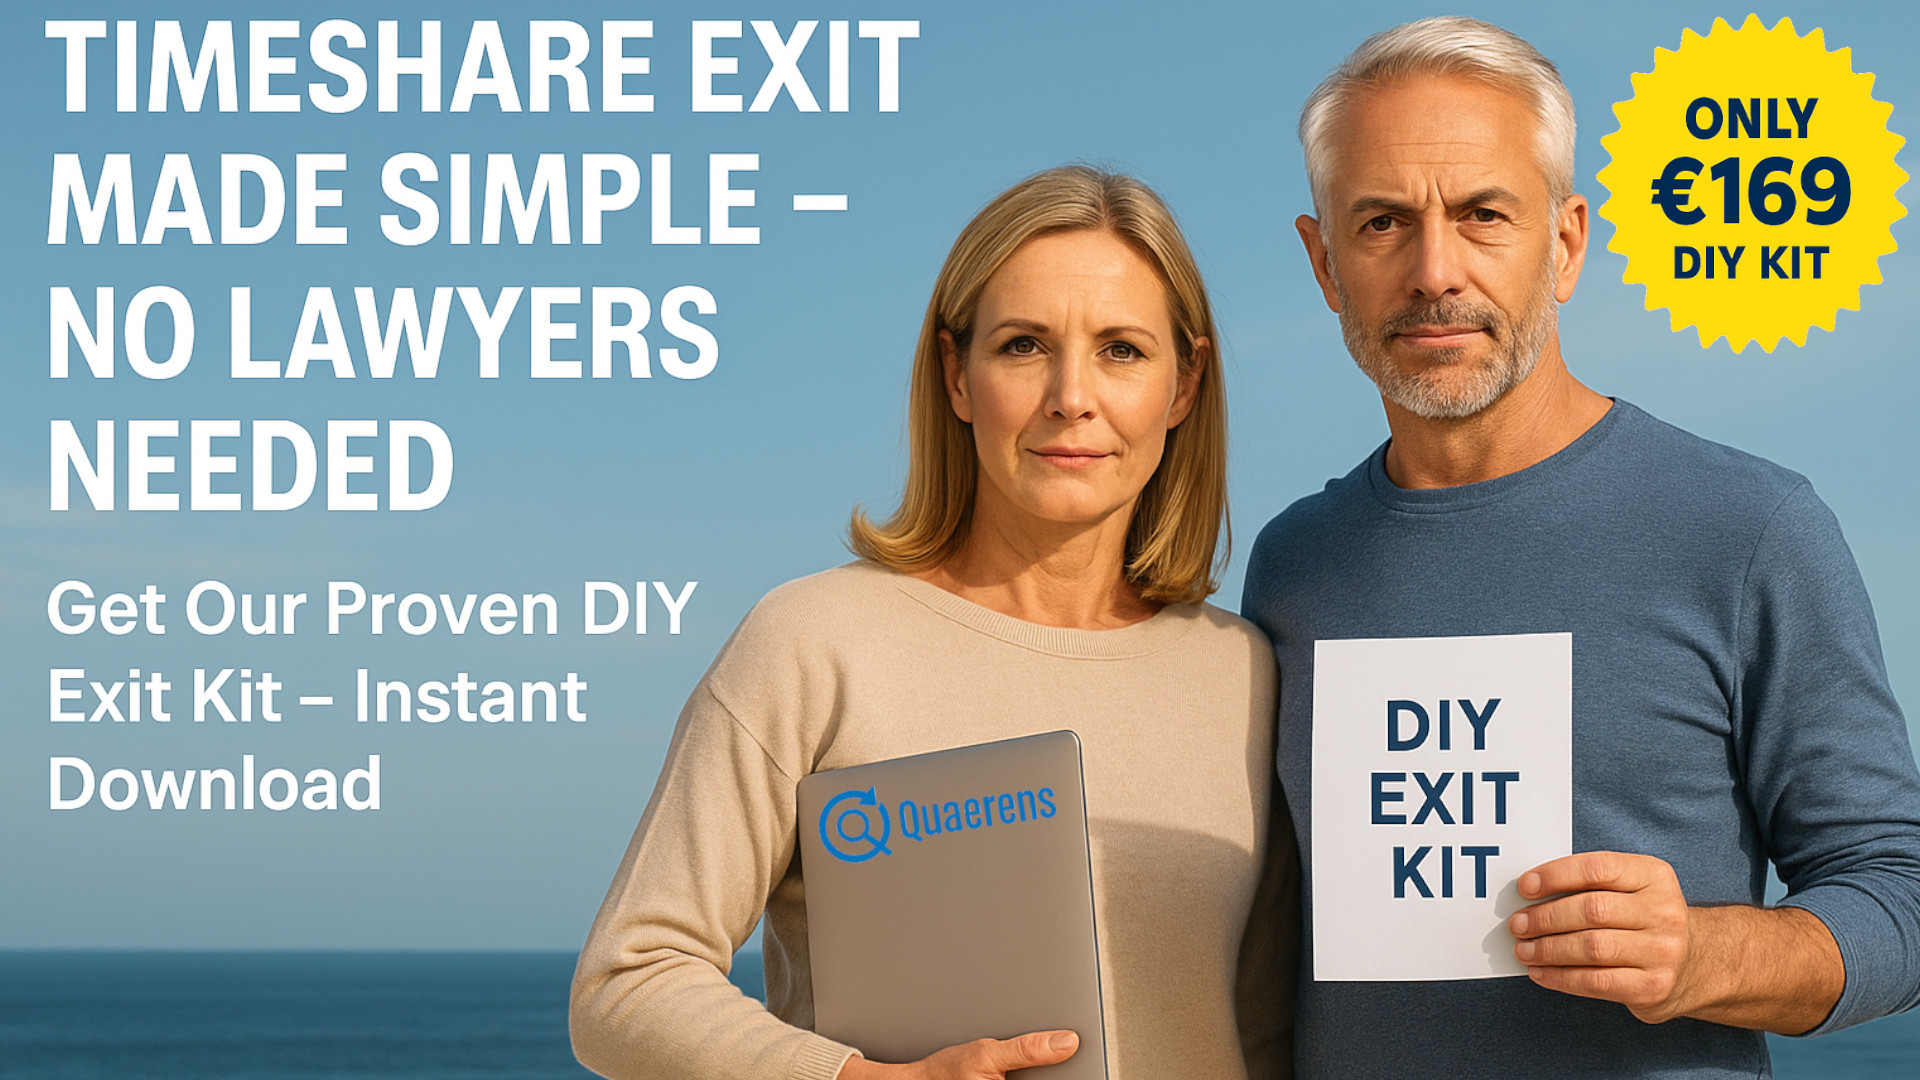
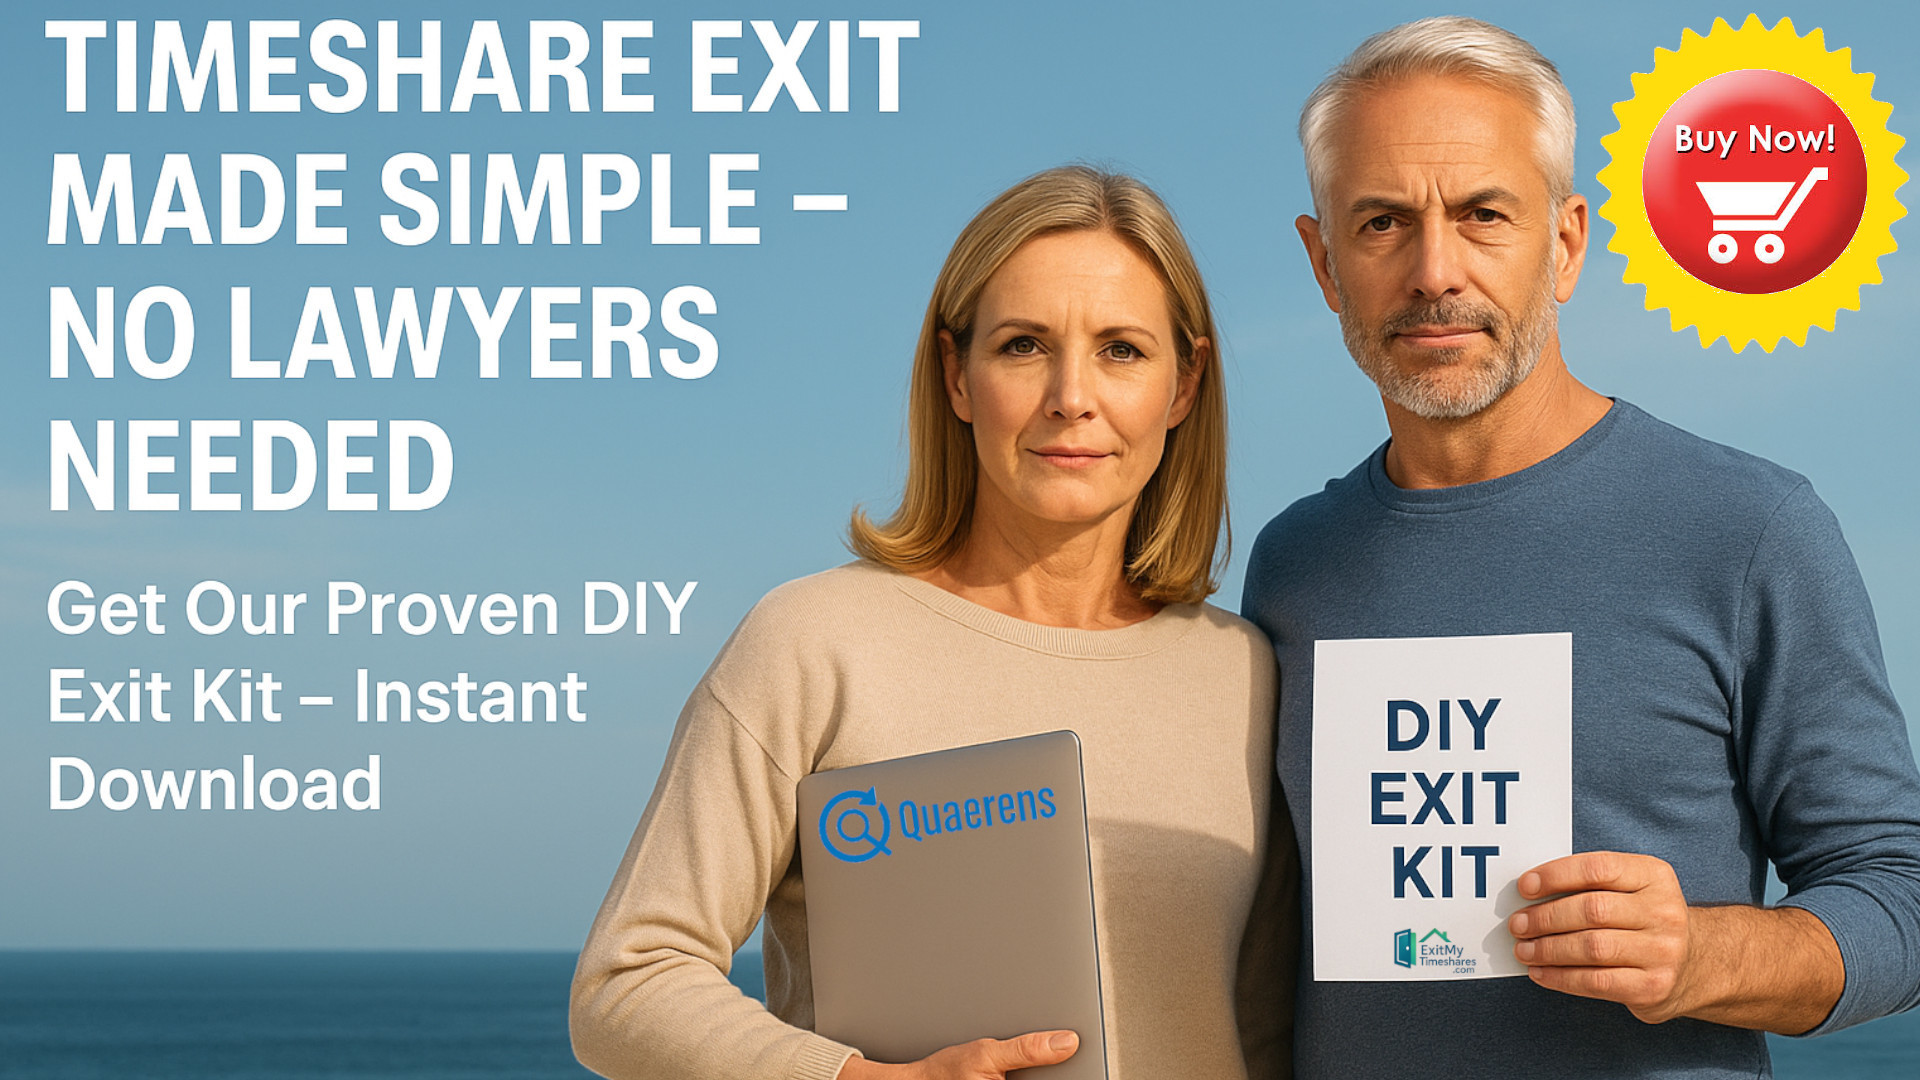
Your update message here

Changed region(s): [[0.8438, 0.0611, 1.0, 0.275], [0.7188, 0.8556, 0.7812, 0.9167]]

diff --git a/public/test2.html b/public/test2.html
@@ -4,7 +4,36 @@
   <meta charset="UTF-8" />
   <link rel="icon" type="image/png" href="images/favicon.png" />
   <meta name="viewport" content="width=device-width, initial-scale=1.0" />
-  <title>Exitmytimeshares.com | Quaerens</title>
+  <title>ExitMyTimeshares.com | Do It Yourself Timeshare Exit Kit ($229|£169|€199)</title>
+
+  <!-- SEO Meta Tags -->
+  <meta name="description"
+        content="Stuck in a timeshare? Our lawyer-vetted, Do-It-Yourself Exit Kit ($229|£169|€199) gives you step-by-step templates to cancel your contract—no lawyers required. 3–6 week turnaround, money-back guarantee." />
+  <meta name="keywords"
+        content="timeshare exit, cancel timeshare, DIY timeshare, timeshare cancellation kit, timeshare cancellation letters, club la costa, hilton resorts, dimaond resorts, dri, anfi, wyndham, marriot, diamond  " />
+
+  <!-- Structured Data for Google (Product & Offer) -->
+  <script type="application/ld+json">
+  {
+    "@context": "https://schema.org",
+    "@type": "Product",
+    "name": "Do-It-Yourself Timeshare Exit Kit",
+    "image": "https://www.exitmytimeshares.com/images/kit-preview.jpg",
+    "description": "Lawyer-vetted cancellation letters & guide for €169, 3–6 week process, money-back guarantee.",
+    "brand": {
+      "@type": "Organization",
+      "name": "Quaerens Ltd"
+    },
+    "offers": {
+      "@type": "Offer",
+      "url": "https://www.exitmytimeshares.com/download-kit.html",
+      "priceCurrency": "EUR",
+      "price": "169.00",
+      "availability": "https://schema.org/InStock"
+    }
+  }
+  </script>
+</head>
 
   <!-- 1) Reset to English BEFORE anything else -->
   <script>
@@ -482,7 +511,7 @@
         <footer class="mt-4 font-semibold">— Maria L. (Spain)</footer>
       </blockquote>
       <blockquote class="bg-white p-6 rounded-lg shadow">
-        “Saved over €2,500 compared to hiring a solicitor. Highly recommend!”
+        “Saved over 2,500 compared to hiring a solicitor. Highly recommend!”
         <footer class="mt-4 font-semibold">— John B. (UK)</footer>
       </blockquote>
     </div>
@@ -631,9 +660,9 @@
             </p>
             <!-- Simplified bullet points with links -->
             <ul class="list-disc list-inside text-gray-800 space-y-3 mb-4">
-              <li><strong>EU Timeshare Directive:</strong> Right to cancel within 14 days of purchase. <a href="/eu-directive.html" class="text-blue-600 underline">Find full details</a></li>
-              <li><strong>Spanish Law:</strong> Contracts signed without clear info may be void. <a href="/spain-law.html" class="text-blue-600 underline">Learn more</a></li>
-              <li><strong>US & UK:</strong> Many resorts accept voluntary surrenders—no lawyer needed. <a href="/us-uk-guide.html" class="text-blue-600 underline">Read guide</a></li>
+              <li><strong>EU Timeshare Directive:</strong> Right to cancel within 14 days of purchase.</a></li>
+              <li><strong>Spanish Law:</strong> Contracts signed without clear info may be void.</a></li>
+              <li><strong>US & UK:</strong> Many resorts accept voluntary surrenders—no lawyer needed.</a></li>
             </ul>
             <p class="text-gray-600 italic">Our templates include exact clauses you need—no guesswork.</p>
         </div>
